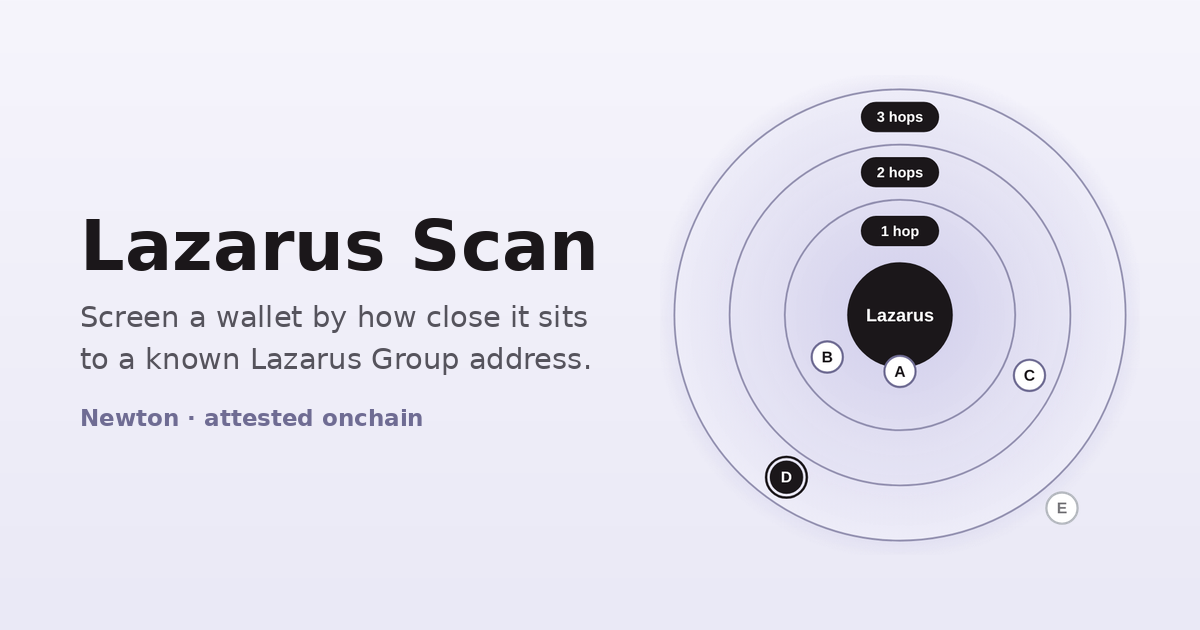
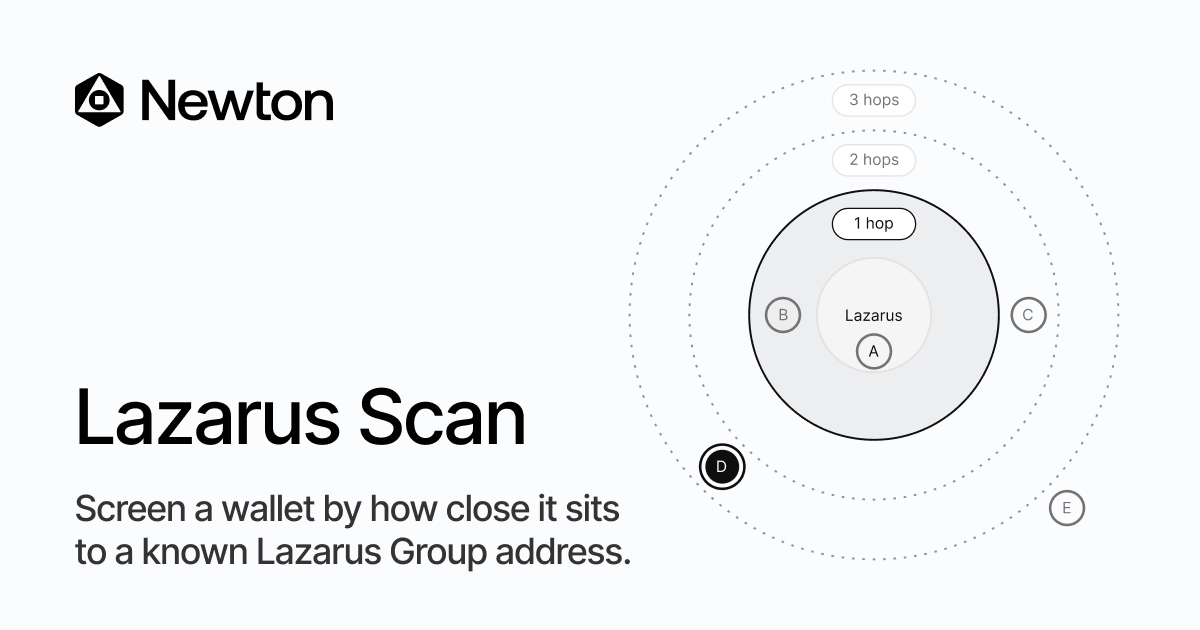
New link preview card, OG tags on lazarus-screening domain, rule-aware verdict check, repoint clients to 0xCC3957c0

diff --git a/index.html b/index.html
@@ -6,20 +6,21 @@
 <title>Newton — Lazarus Scan</title>
 <meta name="description" content="Screen a wallet for its distance to a known Lazarus Group address, and have an operator quorum attest the decision onchain." />
 <!-- How the link unfurls when shared. Update og:url and og:image if the
-     demo moves to another domain; scrapers need absolute URLs. -->
+     demo moves to another domain; scrapers need absolute URLs. Bump ?v= on
+     the image when og.png changes, since unfurlers cache by URL. -->
 <meta property="og:type" content="website" />
 <meta property="og:site_name" content="Newton" />
 <meta property="og:title" content="Lazarus Scan · Newton" />
 <meta property="og:description" content="Screen a wallet by how close it sits to a known Lazarus Group address. Set the radius, run the check, and an operator quorum attests the decision onchain." />
-<meta property="og:url" content="https://lazarus-identitiy-checker.vercel.app/" />
-<meta property="og:image" content="https://lazarus-identitiy-checker.vercel.app/og.png" />
+<meta property="og:url" content="https://lazarus-screening.vercel.app/" />
+<meta property="og:image" content="https://lazarus-screening.vercel.app/og.png?v=2" />
 <meta property="og:image:width" content="1200" />
 <meta property="og:image:height" content="630" />
-<meta property="og:image:alt" content="Rings of coverage around a known Lazarus Group address, with example wallets at one, two and three hops." />
+<meta property="og:image:alt" content="Lazarus Scan by Newton: rings of coverage at one, two and three hops around a known Lazarus Group address, with example wallets A to E placed by distance." />
 <meta name="twitter:card" content="summary_large_image" />
 <meta name="twitter:title" content="Lazarus Scan · Newton" />
 <meta name="twitter:description" content="Screen a wallet by how close it sits to a known Lazarus Group address, attested onchain." />
-<meta name="twitter:image" content="https://lazarus-identitiy-checker.vercel.app/og.png" />
+<meta name="twitter:image" content="https://lazarus-screening.vercel.app/og.png?v=2" />
 <meta name="theme-color" content="#FBFCFE" />
 <link rel="preload" href="/fonts/inter-latin.woff2" as="font" type="font/woff2" crossorigin />
 <link rel="stylesheet" href="/design/tokens.css" />

diff --git a/api/evaluate.js b/api/evaluate.js
@@ -187,6 +187,20 @@ function clientFor(rawHops, rawUsd) {
     || available[0];
 }
 
+/**
+ * What the policy should decide for this screening under one client's rule,
+ * mirroring params_schema.json: a known Lazarus address is always denied;
+ * otherwise deny only when the exposure sits at or within max_hops and its
+ * smallest transfer is worth at least min_exposure_usd.
+ */
+function decisionUnder(screening, rule) {
+  if (screening.direct_match) return "DENY";
+  if (screening.exposure
+      && typeof screening.hop_count === "number" && screening.hop_count <= rule.hops
+      && Number(screening.exposure_usd ?? 0) >= rule.usd) return "DENY";
+  return "ALLOW";
+}
+
 /** The rules actually deployed, so the page offers only what exists. */
 export function availableRules() {
   return configured().map(({ hops, usd }) => ({ hops, usd }));
@@ -238,8 +252,14 @@ export default async function handler(req, res) {
   // Newton is the authority on the decision; this service only supplies the
   // input. If the two disagree, that is a defect worth seeing rather than
   // smoothing over, so it is reported instead of being resolved silently.
-  const localAllow = screening.decision === "ALLOW";
-  const disagreement = localAllow !== attestation.allowed;
+  //
+  // The comparison has to use the rule the operators were actually asked about.
+  // screening.decision is computed at the screen's fixed depth and ignores the
+  // radius, so comparing against it reported a disagreement for every wallet
+  // whose exposure sits past the chosen radius, which the policy correctly
+  // allows.
+  const localDecision = decisionUnder(screening, policy);
+  const disagreement = (localDecision === "ALLOW") !== attestation.allowed;
 
   res.status(200).json({
     ...screening,
@@ -258,7 +278,7 @@ export default async function handler(req, res) {
     },
     ...(disagreement && {
       warning: "The attested decision differs from the local screening result",
-      local_decision: screening.decision,
+      local_decision: localDecision,
     }),
   });
 }
